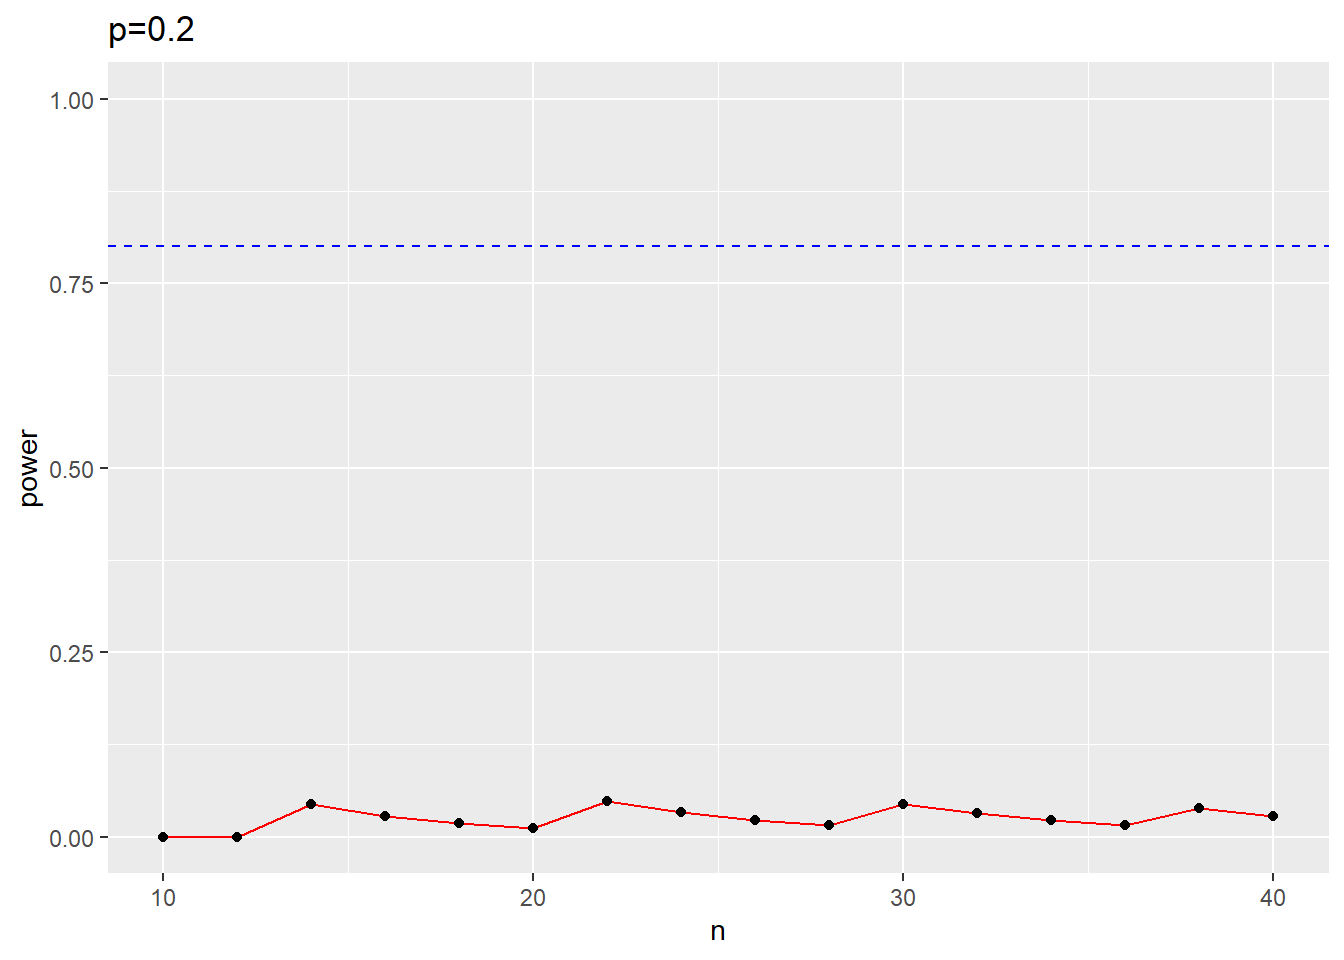
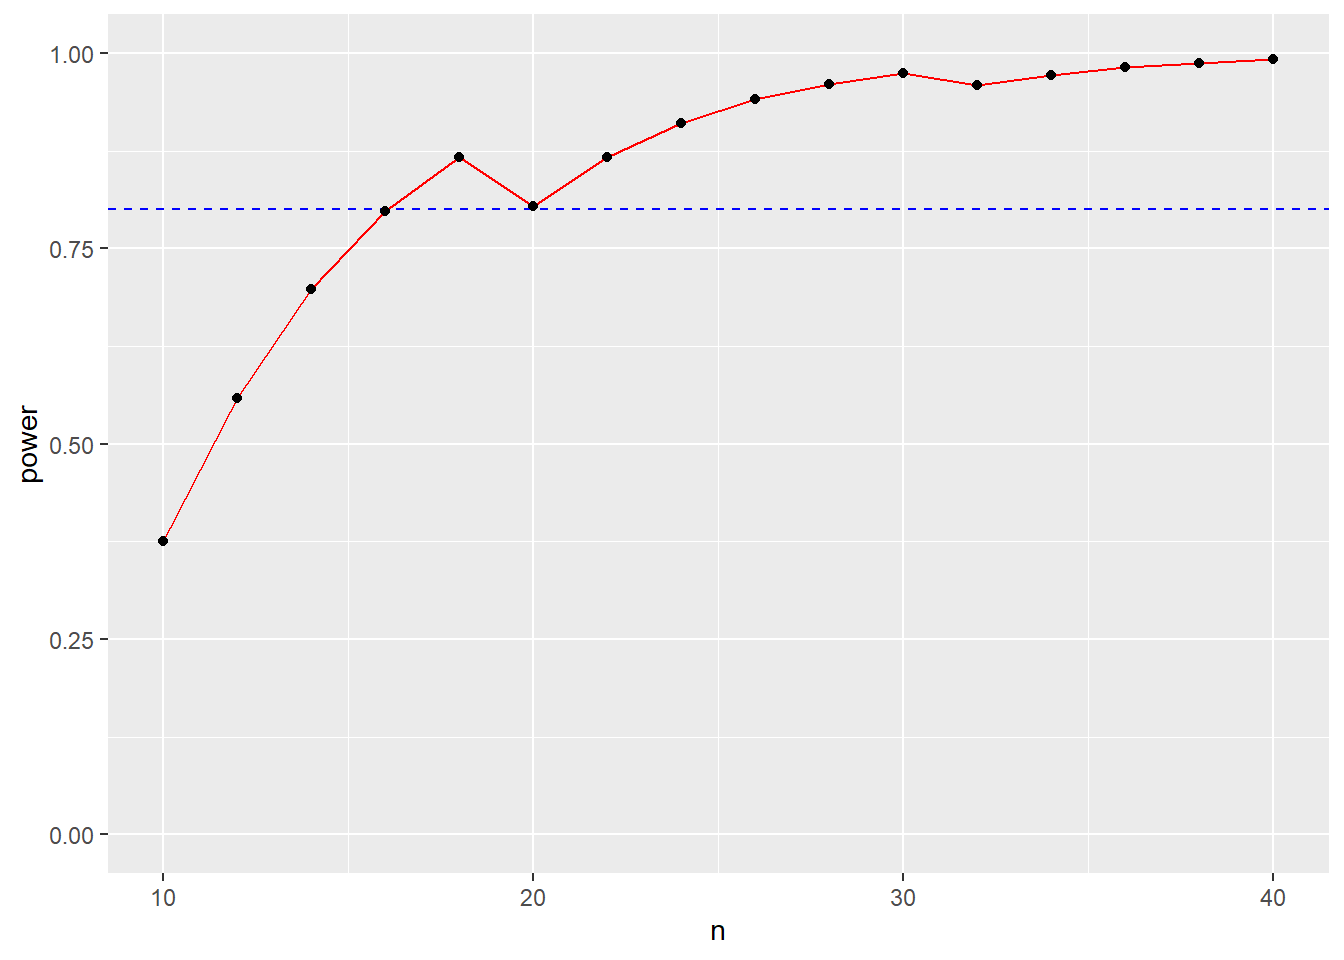
2/8/2022

diff --git a/docs/2022_Feb.html b/docs/2022_Feb.html
@@ -381,7 +381,7 @@ div.tocify {
 <div class="tab-content">
 <div id="summary" class="tab-pane fade in active">
 <p>
-<strong>Last updated:</strong> 2022-02-07
+<strong>Last updated:</strong> 2022-02-08
 </p>
 <p>
 <strong>Checks:</strong> <span class="glyphicon glyphicon-ok text-success" aria-hidden="true"></span> 6 <span class="glyphicon glyphicon-exclamation-sign text-danger" aria-hidden="true"></span> 1
@@ -472,16 +472,16 @@ This reproducible <a href="https://rmarkdown.rstudio.com">R Markdown</a> analysi
 <div class="panel panel-default">
 <div class="panel-heading">
 <p class="panel-title">
-<a data-toggle="collapse" data-parent="#workflowr-checks" href="#strongRepositoryversionstrongahrefhttpsgithubcomhan16Collaborationstree0eca9f6808e1ed47f2db94926ad14d59553de7f3targetblank0eca9f6a"> <span class="glyphicon glyphicon-ok text-success" aria-hidden="true"></span> <strong>Repository version:</strong> <a href="https://github.com/han16/Collaborations/tree/0eca9f6808e1ed47f2db94926ad14d59553de7f3" target="_blank">0eca9f6</a> </a>
+<a data-toggle="collapse" data-parent="#workflowr-checks" href="#strongRepositoryversionstrongahrefhttpsgithubcomhan16Collaborationstreeb036da97acfa0d7bb560536bf6e6b34536bb8462targetblankb036da9a"> <span class="glyphicon glyphicon-ok text-success" aria-hidden="true"></span> <strong>Repository version:</strong> <a href="https://github.com/han16/Collaborations/tree/b036da97acfa0d7bb560536bf6e6b34536bb8462" target="_blank">b036da9</a> </a>
 </p>
 </div>
[2 lines of base64/hex data omitted]
 <div class="panel-body">
 <p>
 Great! You are using Git for version control. Tracking code development and connecting the code version to the results is critical for reproducibility.
 </p>
 <p>
-The results in this page were generated with repository version <a href="https://github.com/han16/Collaborations/tree/0eca9f6808e1ed47f2db94926ad14d59553de7f3" target="_blank">0eca9f6</a>. See the <em>Past versions</em> tab to see a history of the changes made to the R Markdown and HTML files.
+The results in this page were generated with repository version <a href="https://github.com/han16/Collaborations/tree/b036da97acfa0d7bb560536bf6e6b34536bb8462" target="_blank">b036da9</a>. See the <em>Past versions</em> tab to see a history of the changes made to the R Markdown and HTML files.
 </p>
 <p>
 Note that you need to be careful to ensure that all relevant files for the analysis have been committed to Git prior to generating the results (you can use <code>wflow_publish</code> or <code>wflow_git_commit</code>). workflowr only checks the R Markdown file, but you know if there are other scripts or data files that it depends on. Below is the status of the Git repository when the results were generated:
@@ -492,7 +492,6 @@ Ignored files:
 
 Unstaged changes:
     Modified:   analysis/2022_Feb.Rmd
-    Modified:   analysis/index.Rmd
 
 </code></pre>
 <p>
@@ -536,6 +535,40 @@ Message
 Rmd
 </td>
 <td>
+<a href="https://github.com/han16/Collaborations/blob/b036da97acfa0d7bb560536bf6e6b34536bb8462/analysis/2022_Feb.Rmd" target="_blank">b036da9</a>
+</td>
+<td>
+Han
+</td>
+<td>
+2022-02-07
+</td>
+<td>
+2/7/2022
+</td>
+</tr>
+<tr>
+<td>
+html
+</td>
+<td>
+<a href="https://rawcdn.githack.com/han16/Collaborations/b036da97acfa0d7bb560536bf6e6b34536bb8462/docs/2022_Feb.html" target="_blank">b036da9</a>
+</td>
+<td>
+Han
+</td>
+<td>
+2022-02-07
+</td>
+<td>
+2/7/2022
+</td>
+</tr>
+<tr>
+<td>
+Rmd
+</td>
+<td>
 <a href="https://github.com/han16/Collaborations/blob/0eca9f6808e1ed47f2db94926ad14d59553de7f3/analysis/2022_Feb.Rmd" target="_blank">0eca9f6</a>
 </td>
 <td>
@@ -572,8 +605,8 @@ Han
 </div>
 </div>
 </div>
-<div id="probem-1" class="section level2">
-<h2>Probem 1</h2>
+<div id="problem-1" class="section level2">
+<h2>Problem 1</h2>
 <pre class="r"><code> perform a sample size calculation with an 80% power, on the basis of reported clinical and radiographical failure rates of pulpotomy treatment which ranges between 10%-20% (for each) in the literature. `</code></pre>
 </div>
 <div id="problem-2" class="section level2">
@@ -584,14 +617,14 @@ Han
 <h2>Problem formulation</h2>
 <div id="power-vs-sample-size" class="section level3">
 <h3>power vs sample size</h3>
-<p>Because sample size is not big (&lt;40), it’s better to assume binomial distribution for number of success, <span class="math inline">\(X\)</span>. Consider the hypothesis test, <span class="math inline">\(H_0: p=p_0\)</span> vs <span class="math inline">\(H_a: p&lt; p_0\)</span>. The power is defined as <span class="math inline">\(P(reject~ H_0|H_a)=P(X&lt;=X_0|p)=\sum_{X=0}^{X_0} {n \choose k}p^k(1-p)^{n-k}\)</span>, so power is a function of following three parameters</p>
+<p>Because sample size is not big (&lt;40), it’s better to assume binomial distribution for number of failures, <span class="math inline">\(X\)</span>. Consider the hypothesis test, <span class="math inline">\(H_0: p=p_0\)</span> vs <span class="math inline">\(H_a: p&lt; p_0\)</span>. The power is defined as <span class="math inline">\(P(reject~ H_0|H_a)=P(X&lt;=X_0|p)=\sum_{X=0}^{X_0} {n \choose k}p^k(1-p)^{n-k}\)</span>, so power is a function of following three parameters</p>
 <ul>
 <li><span class="math inline">\(p\)</span> is success probability in alternative hypothesis</li>
 <li><span class="math inline">\(n\)</span> is sample size</li>
 <li><span class="math inline">\(X_0\)</span> is rejection cutoff such that X is rejected when <span class="math inline">\(X&lt;X_0\)</span>, at specified significance level</li>
 </ul>
 <pre class="r"><code>n=seq(10, 40, by=2) # vary sample size from 10 to 40
-p0=0.2
+p0=0.5
 k=qbinom(0.05, n, p0)-1 # significance level 0.05; p_0=0.5 
 pa=0.2 # pa is any value within H_a
 power=pbinom(k, n, pa) # calculate power when p=pa
@@ -599,25 +632,39 @@ ggplot(data=data.frame(n, k, power), aes(x=n, y=power, group=1)) +
   geom_line(color=&quot;red&quot;)+
   geom_hline(yintercept=0.8, linetype=&quot;dashed&quot;, color = &quot;blue&quot;)+
   geom_point()+
-  ylim(c(0,1))+
-  ggtitle(&quot;p=0.2&quot;)</code></pre>
+  ylim(c(0,1))#+</code></pre>
 <p><img src="figure/2022_Feb.Rmd/unnamed-chunk-3-1.png" width="672" style="display: block; margin: auto;" /></p>
-<pre class="r"><code>n=seq(10, 40, by=2) # vary sample size from 10 to 40 
+<pre class="r"><code>  #ggtitle(&quot;p=0.2&quot;)
+  
+n=seq(10, 40, by=2) # vary sample size from 10 to 40 
 k=qbinom(0.05, n, p0)-1 # significance level 0.05; p_0=0.5 
-pa=0.01 # pa is any value within H_a
+pa=0.1 # pa is any value within H_a
 power=pbinom(k, n, pa) # calculate power when p=pa
 ggplot(data=data.frame(n, k, power), aes(x=n, y=power, group=1)) +
   geom_line(color=&quot;red&quot;)+
   geom_hline(yintercept=0.8, linetype=&quot;dashed&quot;, color = &quot;blue&quot;)+
   geom_point()+
-  ylim(c(0,1))+
-  ggtitle(&quot;p=0.1&quot;)</code></pre>
+  ylim(c(0,1))#+</code></pre>
 <p><img src="figure/2022_Feb.Rmd/unnamed-chunk-3-2.png" width="672" style="display: block; margin: auto;" /></p>
+<pre class="r"><code>  #ggtitle(&quot;p=0.1&quot;)
+
+
+n=32
+p0=0.5
+k=qbinom(0.05, n, p0)-1 # significance level 0.05; p_0=0.5 
+pa=seq(0, p0, by=0.1)
+power=pbinom(k, n, pa) # calculate power when p=pa
+ggplot(data=data.frame(n, k, power), aes(x=pa, y=power, group=1)) +
+  geom_line(color=&quot;red&quot;)+
+  geom_hline(yintercept=0.8, linetype=&quot;dashed&quot;, color = &quot;blue&quot;)+
+  geom_point()+
+  ylim(c(0,1))</code></pre>
+<p><img src="figure/2022_Feb.Rmd/unnamed-chunk-3-3.png" width="672" style="display: block; margin: auto;" /></p>
 </div>
 <div id="two-sample-proportion-test" class="section level3">
 <h3>two sample proportion test</h3>
-<p>In two independent samples, <span class="math inline">\(p_1, p_2\)</span> are sample proportions. Consider the test <span class="math inline">\(H_0:p_1-p_2=p_0\)</span> vs <span class="math inline">\(H_a:p_1-p_2&lt;p_0\)</span>, <span class="math inline">\(p_0\)</span> is the specified difference. Use test statistics <span class="math display">\[Z=\frac{\hat{p_1}-\hat{p_2}-p_0}{\sqrt{\hat{p}(1-\hat{p}(1/n_1+1/n_2))}}\]</span>,</p>
-<p>where <span class="math inline">\(\hat{p_1}=\frac{No.X=1}{n_1}, \hat{p_2}=\frac{No.Y=1}{n_2}\)</span> are estimated proportions in two samples, and <span class="math inline">\(\hat{p}=\frac{No.X=1+No.Y=1}{n_1+n_2}\)</span> in the combined sample. Under null hypothesis, <span class="math inline">\(Z\sim N(0.1)\)</span> approximately. The test needs to be rejected when <span class="math inline">\(Z&lt;Z_{\alpha}\)</span>, e.g. <span class="math inline">\(Z_{0.05}=-1.64\)</span>.</p>
+<p>In two independent samples, <span class="math inline">\(p_1, p_2\)</span> are sample proportions. Consider the test <span class="math inline">\(H_0:p_1-p_2=p_0\)</span> vs <span class="math inline">\(H_a:p_1-p_2&gt;p_0\)</span>, <span class="math inline">\(p_0\)</span> is the specified difference. Use test statistics <span class="math display">\[Z=\frac{\hat{p_1}-\hat{p_2}-p_0}{\sqrt{\hat{p}(1-\hat{p}(1/n_1+1/n_2))}}\]</span>,</p>
+<p>where <span class="math inline">\(\hat{p_1}=\frac{No.X=1}{n_1}, \hat{p_2}=\frac{No.Y=1}{n_2}\)</span> are estimated proportions in two samples, and <span class="math inline">\(\hat{p}=\frac{No.X=1+No.Y=1}{n_1+n_2}\)</span> in the combined sample. Under null hypothesis, <span class="math inline">\(Z\sim N(0.1)\)</span> approximately. The test needs to be rejected when <span class="math inline">\(Z&gt;Z_{1-\alpha}\)</span>, e.g. <span class="math inline">\(Z_{0.95}=1.64\)</span>.</p>
 <br>
 <p>
 <button type="button" class="btn btn-default btn-workflowr btn-workflowr-sessioninfo" data-toggle="collapse" data-target="#workflowr-sessioninfo" style="display: block;">
